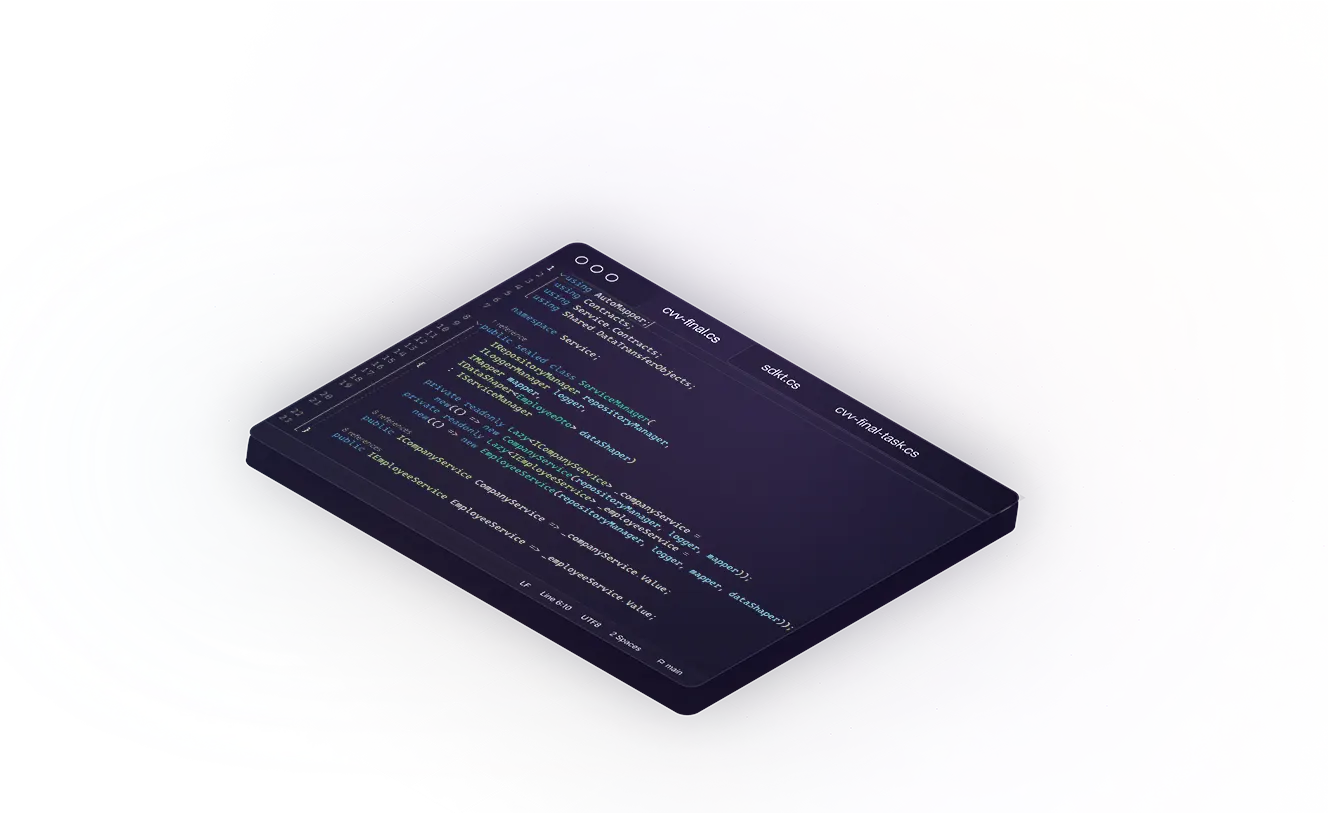
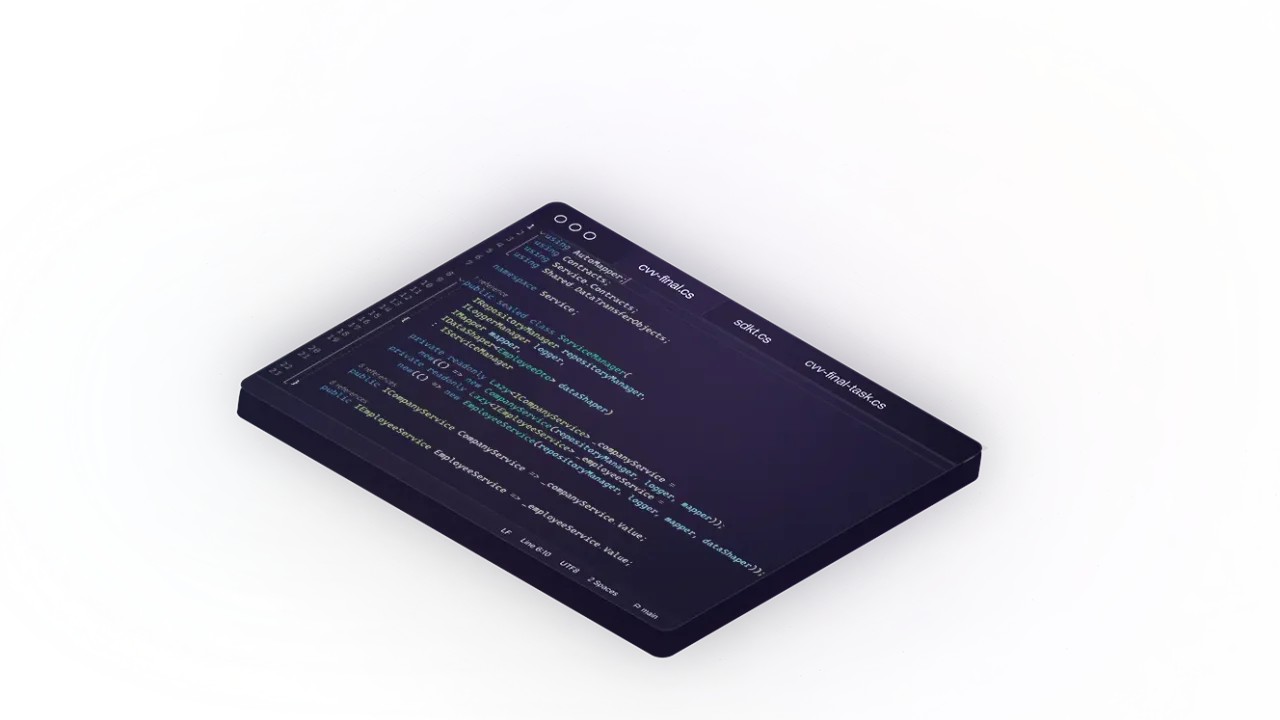
refactor(ProjectDetails, About): update image dimensions for improved layout and performance

diff --git a/sections/About.tsx b/sections/About.tsx
@@ -19,9 +19,9 @@ export async function About() {
           <Image
             src="/assets/images/coding-pov.webp"
             alt="Coding POV"
+            width={1280}
+            height={720}
             priority={true}
-            width={1828}
-            height={813}
             className="absolute -top-4 -right-20 scale-[1.75] md:inset-y-10 md:left-50 md:scale-[3] lg:scale-[2.5]"
           />
           <div className="z-10">